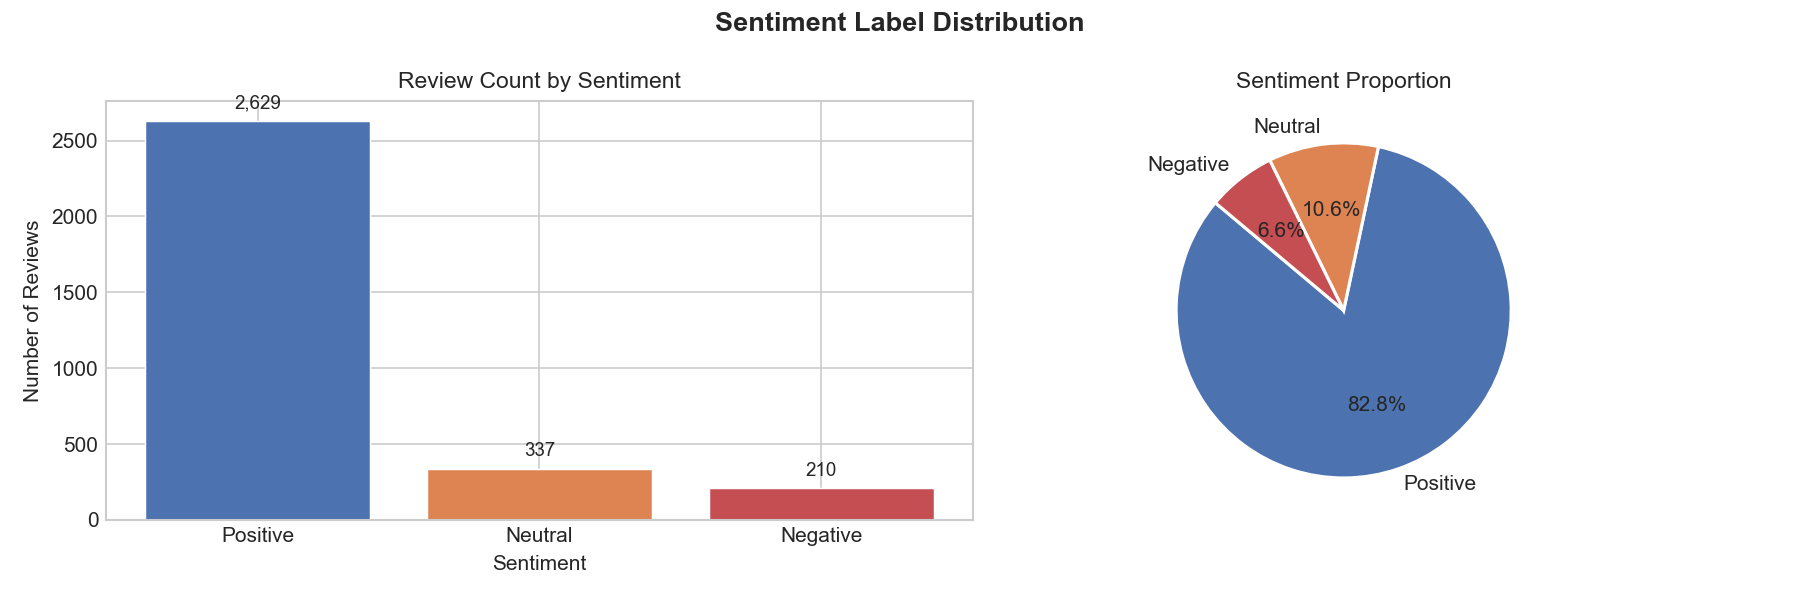
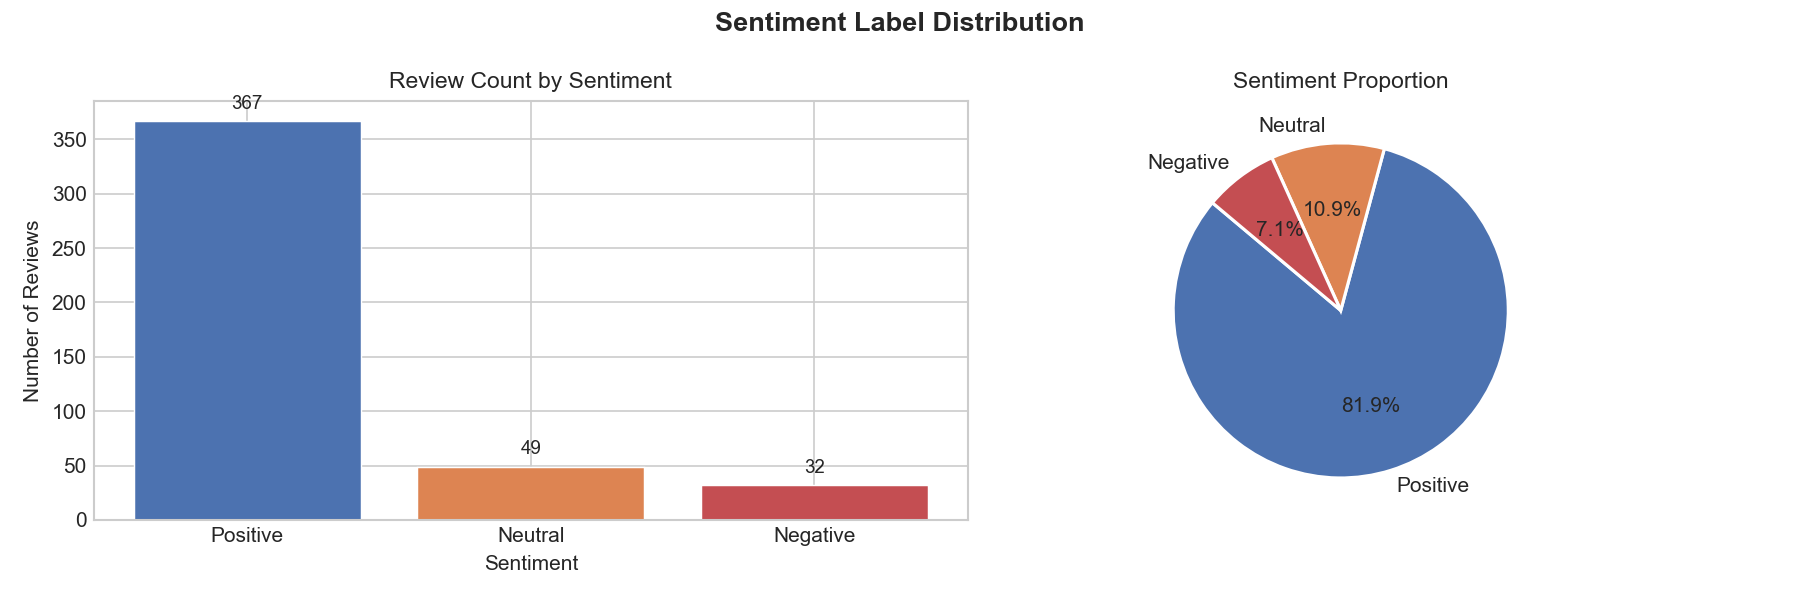
Phase 1 Step 4: Add lexicon preprocessing and update preprocessing figures

diff --git a/Phase 1/basic_preprocess.py b/Phase 1/basic_preprocess.py
@@ -15,10 +15,16 @@ Usage as standalone to see output and generate figures:
 #Importing Libraries
 import os
 import re
+import string
 import pandas as pd
 import numpy as np
+import matplotlib
+matplotlib.use("Agg")
 import matplotlib.pyplot as plt
 import seaborn as sns
+import nltk
+from nltk.corpus import stopwords
+from nltk.stem import WordNetLemmatizer
 
 #Importing loader function
 from loader import load_data
@@ -44,6 +50,38 @@ SENTIMENT_COLORS = {
     "Neutral" : "#DD8452",
     "Negative": "#C44E52",
 }
+STOP_WORDS = set(stopwords.words("english"))
+LEMMATIZER = WordNetLemmatizer()
+
+
+def basic_text_clean(text: str) -> str:
+    """
+    Light text cleaning safe for all lexicon pipelines.
+    """
+    if pd.isna(text):
+        return ""
+    text = str(text)
+    text = re.sub(r"http\S+|www\.\S+", " ", text)
+    text = re.sub(r"\s+", " ", text).strip()
+    return text
+
+
+def preprocess_for_vader(text: str) -> str:
+    """
+    Minimal preprocessing for VADER, which relies on punctuation and casing cues.
+    """
+    return basic_text_clean(text)
+
+
+def preprocess_for_swn(text: str) -> list[str]:
+    """
+    Full linguistic normalization is required for lexicon matching in SentiWordNet pipelines.
+    """
+    cleaned = basic_text_clean(text).lower()
+    cleaned = cleaned.translate(str.maketrans("", "", string.punctuation))
+    tokens = nltk.word_tokenize(cleaned)
+    processed_tokens = [LEMMATIZER.lemmatize(token) for token in tokens if token not in STOP_WORDS]
+    return processed_tokens
 
 
 #================================================================
@@ -59,6 +97,7 @@ def preprocess_data(df: pd.DataFrame) -> pd.DataFrame:
     print(SEPARATOR)
 
     df = df.copy()
+    reviewer_ids = df["reviewerID"].copy() if "reviewerID" in df.columns else None
 
     #Sentiment Labeling
     def label_sentiment(rating):
@@ -90,6 +129,8 @@ def preprocess_data(df: pd.DataFrame) -> pd.DataFrame:
 
     existing_columns = [col for col in SELECTED_COLUMNS if col in df.columns]
     df = df[existing_columns].copy()
+    if reviewer_ids is not None:
+        df["reviewerID"] = reviewer_ids
 
     #Flagging outliers
     #Calculating lengths of new combined text
@@ -110,6 +151,20 @@ def preprocess_data(df: pd.DataFrame) -> pd.DataFrame:
     Q3 = wc.quantile(0.75)
     IQR = Q3 - Q1
     df["is_outlier"] = (wc < (Q1 - 1.5 * IQR)) | (wc > (Q3 + 1.5 * IQR))
+
+    print("\nApplying lexicon-specific preprocessing...")
+    before_dedup = len(df)
+    if "reviewerID" in df.columns:
+        df = df.drop_duplicates(subset=["reviewerID", "combined_text"]).reset_index(drop=True)
+        df = df.drop(columns=["reviewerID"])
+    else:
+        df = df.drop_duplicates(subset=["combined_text"]).reset_index(drop=True)
+    dropped_dupes = before_dedup - len(df)
+    if dropped_dupes > 0:
+        print(f"Dropped {dropped_dupes} duplicate reviews")
+
+    df["clean_vader"] = df["combined_text"].apply(preprocess_for_vader)
+    df["clean_swn"] = df["combined_text"].apply(preprocess_for_swn)
 
     print(f"\nPreprocessing complete. {len(df)} rows remaining.")
     print(SEPARATOR)
@@ -135,7 +190,7 @@ def generate_report(df: pd.DataFrame) -> None:
     for sentiment in ["Positive", "Neutral", "Negative"]:
         count = sentiment_counts.get(sentiment, 0)
         percent = sent_percentages.get(sentiment, 0.0)
-        bar = "█" * int(percent / 2)
+        bar = "â–ˆ" * int(percent / 2)
         print(f"   {sentiment:<10}: {count:>5,} ({percent:5.1f}%)  {bar}")
 
 
@@ -144,11 +199,11 @@ def generate_report(df: pd.DataFrame) -> None:
     print("Column Selection Rationale:")
 
     rationale = {
-        "combined_text" : "Primary model input — summary + reviewText merged into one field.",
-        "sentiment"     : "Model target — derived from star rating.",
-        "overall"       : "Raw star rating — kept for reference and validation.",
-        "verified"      : "Trust indicator — verified purchases likely have more genuine sentiment.",
-        "vote"          : "Community signal — higher voted reviews carry stronger sentiment.",
+        "combined_text" : "Primary model input â€” summary + reviewText merged into one field.",
+        "sentiment"     : "Model target â€” derived from star rating.",
+        "overall"       : "Raw star rating â€” kept for reference and validation.",
+        "verified"      : "Trust indicator â€” verified purchases likely have more genuine sentiment.",
+        "vote"          : "Community signal â€” higher voted reviews carry stronger sentiment.",
         "style_Size"    : "Fit/size complaints are a primary driver of negative fashion reviews.",
         "style_Color"   : "Sentiment can differ across product colour variants.",
     }
@@ -156,7 +211,7 @@ def generate_report(df: pd.DataFrame) -> None:
     for col in df.columns:
         reason = rationale.get(col, "Derived column")
         print(f"\n    {col}")
-        print(f"      → {reason}")
+        print(f"      â†’ {reason}")
 
     print(f"\nWorking DataFrame shape: {df.shape}")
 
@@ -181,8 +236,8 @@ def generate_report(df: pd.DataFrame) -> None:
         print(f"\n  {col_label}:")
         print(f"    Mean              : {mu:.1f}")
         print(f"    Std Dev           : {sig:.1f}")
-        print(f"    Z-score threshold : {z_thresh:.1f}  →  {z_out:,} outliers  ({z_out/len(col)*100:.2f}%)")
-        print(f"    IQR upper bound   : {iqr_upper:.1f}  →  {iqr_out:,} outliers  ({iqr_out/len(col)*100:.2f}%)")
+        print(f"    Z-score threshold : {z_thresh:.1f}  â†’  {z_out:,} outliers  ({z_out/len(col)*100:.2f}%)")
+        print(f"    IQR upper bound   : {iqr_upper:.1f}  â†’  {iqr_out:,} outliers  ({iqr_out/len(col)*100:.2f}%)")
 
     print(f"\n  Total flagged outliers (IQR, word count): {df['is_outlier'].sum():,}")
     print(f"\n  Outlier breakdown by sentiment:")
@@ -192,7 +247,7 @@ def generate_report(df: pd.DataFrame) -> None:
     top5 = df.nlargest(5, "wordCount")[["sentiment", "wordCount", "combined_text"]]
     for _, row in top5.iterrows():
         snippet = row["combined_text"][:80].replace("\n", " ")
-        print(f"    [{row['sentiment']:<10}]  {row['wordCount']:>4} words  |  {snippet}…")
+        print(f"    [{row['sentiment']:<10}]  {row['wordCount']:>4} words  |  {snippet}â€¦")
 
     #Final Summary
     print(f"\n{SEPARATOR}")
@@ -260,7 +315,7 @@ def generate_figures(df: pd.DataFrame) -> None:
         ax.set_xlabel("Sentiment")
         ax.set_ylabel("Word Count")
 
-    plt.suptitle("Outlier Detection — Word Count by Sentiment", fontsize=13, fontweight="bold")
+    plt.suptitle("Outlier Detection â€” Word Count by Sentiment", fontsize=13, fontweight="bold")
     plt.tight_layout()
     plt.savefig(os.path.join(FIGURES_FOLDER, "2.02_word_count_by_sentiment.png"), dpi=150)
     plt.close()
